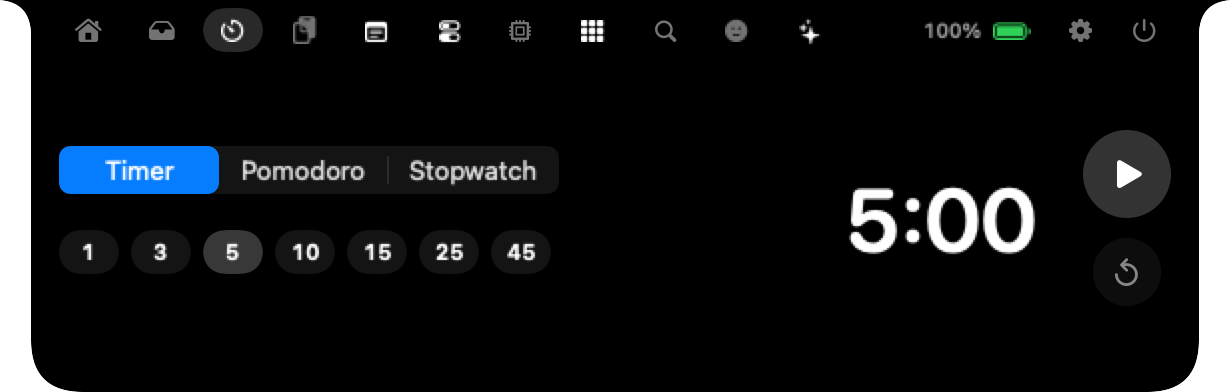
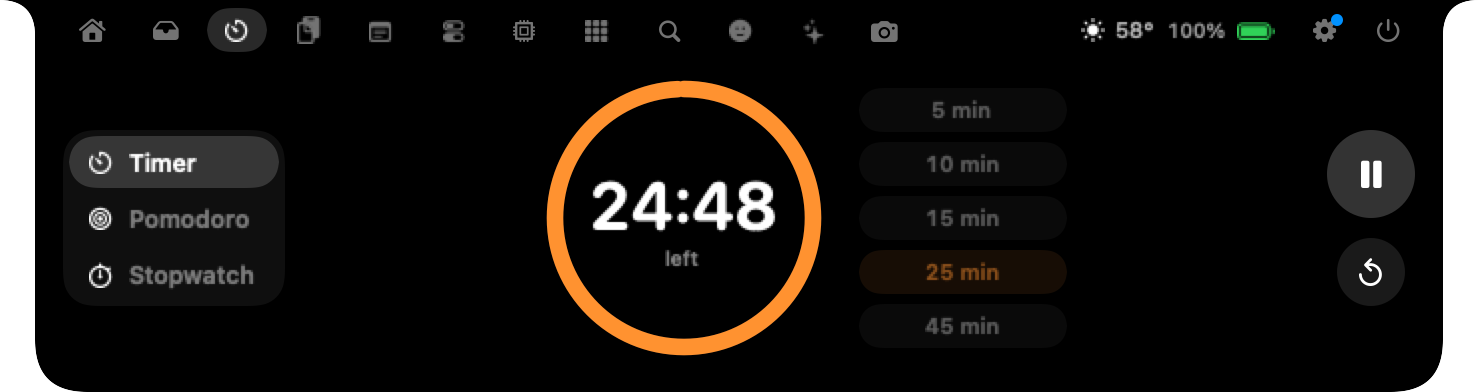
README and site: new timer screenshot and captions

diff --git a/docs/index.html b/docs/index.html
@@ -580,7 +580,7 @@ open build/Nunsseop.app</pre></div>
     { e: '🔍', img: 'tab-search.png', en: ['Search', 'A launcher that can stand in for Spotlight or Raycast: apps, files, commands, settings, clipboard, emoji and sums. <kbd>⇧⌘Space</kbd> by default, or record your own, even <kbd>⌘Space</kbd>.'], ko: ['검색', 'Spotlight나 Raycast 대신 쓸 수 있는 검색. 앱, 파일, 명령, 설정, 클립보드, 이모지, 계산까지. 기본 단축키는 <kbd>⇧⌘Space</kbd>이고, <kbd>⌘Space</kbd>를 포함해 원하는 키로 바꿀 수 있습니다.'] },
     { e: '📥', img: 'shelf.png', en: ['Shelf', 'Drop files on the notch and drag them out later. Drop them on the AirDrop tile to send them straight away.'], ko: ['선반', '파일을 노치에 놓아 두고 나중에 끌어내세요. AirDrop 칸에 놓으면 바로 보내집니다.'] },
     { e: '✨', img: 'tab-ai.png', en: ['AI usage', 'Claude Code and Codex limits with reset times, plus Claude Code’s recent token use. No login, nothing to set up.'], ko: ['AI 사용량', 'Claude Code와 Codex의 한도와 초기화 시각, Claude Code의 최근 토큰 사용량. 로그인도 설정도 필요 없습니다.'] },
-    { e: '⏱', img: 'tab-timer.png', en: ['Timer', 'Countdown, Pomodoro and stopwatch. The time left stays on the collapsed notch.'], ko: ['타이머', '카운트다운, 뽀모도로, 스톱워치. 접힌 노치에 남은 시간이 그대로 보입니다.'] },
+    { e: '⏱', img: 'tab-timer.png', en: ['Timer', 'Countdown, Pomodoro and stopwatch around a ring that empties as time runs out. Scroll or type to set any length, and the time left stays on the collapsed notch.'], ko: ['타이머', '시간이 줄어들수록 비워지는 링으로 보는 카운트다운, 뽀모도로, 스톱워치. 스크롤하거나 직접 입력해 원하는 길이로 맞추고, 접힌 노치에도 남은 시간이 그대로 보입니다.'] },
     { e: '🎛', img: 'tab-tools.png', en: ['Tools', 'Switch speakers, mute the mic, keep the Mac awake, record the screen, eject drives, pick a color from the screen and copy text out of any part of it.'], ko: ['도구', '스피커 전환, 마이크 음소거, 잠자기 방지, 화면 녹화, 드라이브 꺼내기, 화면에서 색 찍기와 글자 복사.'] },
     { e: '📊', img: 'tab-system.png', en: ['System', 'CPU, memory, disk and network at a glance, plus your mouse and keyboard batteries.'], ko: ['시스템', 'CPU, 메모리, 디스크, 네트워크를 한눈에. 마우스와 키보드 배터리도 함께.'] },
     { e: '😀', img: 'tab-emoji.png', en: ['Emoji', 'Every emoji, searchable by name, with your recent picks first. Click to copy.'], ko: ['이모지', '모든 이모지를 이름으로 검색하고, 최근에 쓴 것부터. 클릭하면 복사됩니다.'] }

diff --git a/README.ko.md b/README.ko.md
@@ -58,7 +58,7 @@ Dock 아이콘은 없습니다. Nunsseop은 노치에 삽니다.
 | | |
 | :---: | :---: |
 | <img src="docs/images/tab-search.png" alt="앱, 명령, 설정이 보이는 검색"><br>**검색.** 앱, 파일, 명령, 클립보드, 이모지, 계산을 한 곳에서. 단축키는 원하는 대로. | <img src="docs/images/tab-ai.png" alt="Claude Code와 Codex 사용량"><br>**AI 사용량.** Claude Code와 Codex 한도. 로그인 필요 없음. |
-| <img src="docs/images/shelf.png" alt="AirDrop 칸이 있는 선반"><br>**선반.** 파일을 노치에 놓아 두거나 AirDrop으로 바로 보내기. | <img src="docs/images/tab-timer.png" alt="타이머 탭"><br>**타이머.** 카운트다운, 뽀모도로, 스톱워치. |
+| <img src="docs/images/shelf.png" alt="AirDrop 칸이 있는 선반"><br>**선반.** 파일을 노치에 놓아 두거나 AirDrop으로 바로 보내기. | <img src="docs/images/tab-timer.png" alt="타이머 탭"><br>**타이머.** 카운트다운, 뽀모도로, 스톱워치. 길이는 원하는 대로. |
 | <img src="docs/images/tab-tools.png" alt="도구 탭"><br>**도구.** 오디오 출력, 마이크 음소거, 잠자기 방지, 화면 녹화, 색 찍기, 글자 복사. | <img src="docs/images/tab-system.png" alt="기기 배터리가 보이는 시스템 탭"><br>**시스템.** CPU, 메모리, 디스크, 네트워크, 기기 배터리. |
 | <img src="docs/images/tab-emoji.png" alt="이모지 선택기"><br>**이모지.** 모든 이모지를 검색하고 클릭 한 번으로 복사. | <img src="docs/images/hud-headphones.png" alt="헤드폰 배터리 HUD"><br>**HUD.** 볼륨, 밝기, AirPods 배터리 등. |
 | <img src="docs/images/collapsed-call.png" alt="Zoom 통화 중인 접힌 노치"><br>**통화.** 통화 중인 앱과 통화 시간. | <img src="docs/images/collapsed-idle.png" alt="Claude Code 남은 양과 날씨가 보이는 접힌 노치"><br>**한눈에.** 닫힌 노치 양쪽에 보일 것을 직접 고르기. |

diff --git a/README.md b/README.md
@@ -58,7 +58,7 @@ There's no Dock icon. Nunsseop lives in the notch.
 | | |
 | :---: | :---: |
 | <img src="docs/images/tab-search.png" alt="Search showing an app, a command and a setting"><br>**Search.** A launcher for apps, files, commands, clipboard, emoji and sums, on any shortcut you like. | <img src="docs/images/tab-ai.png" alt="AI usage for Claude Code and Codex"><br>**AI usage.** Claude Code and Codex limits, no login needed. |
-| <img src="docs/images/shelf.png" alt="File shelf with AirDrop tile"><br>**Shelf.** Park files in the notch, or drop them on AirDrop. | <img src="docs/images/tab-timer.png" alt="Timer tab"><br>**Timer.** Countdown, Pomodoro and stopwatch. |
+| <img src="docs/images/shelf.png" alt="File shelf with AirDrop tile"><br>**Shelf.** Park files in the notch, or drop them on AirDrop. | <img src="docs/images/tab-timer.png" alt="Timer tab"><br>**Timer.** Countdown, Pomodoro and stopwatch, any length you like. |
 | <img src="docs/images/tab-tools.png" alt="Tools tab"><br>**Tools.** Audio output, mic mute, keep awake, screen recording, color picker and text capture. | <img src="docs/images/tab-system.png" alt="System tab with device batteries"><br>**System.** CPU, memory, disk, network and device batteries. |
 | <img src="docs/images/tab-emoji.png" alt="Emoji picker"><br>**Emoji.** Every emoji, searchable, one click to copy. | <img src="docs/images/hud-headphones.png" alt="Headphone battery HUD"><br>**HUDs.** Volume, brightness, AirPods battery and more. |
 | <img src="docs/images/collapsed-call.png" alt="Collapsed notch during a Zoom call"><br>**Calls.** The call app and how long you've been talking. | <img src="docs/images/collapsed-idle.png" alt="Collapsed notch showing Claude Code usage left and weather"><br>**At a glance.** Pick what each side of the closed notch shows. |
